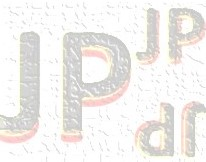
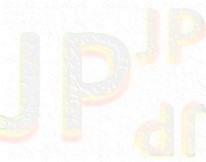
Few updates
Changed background image and corrected some older css to show case the headers.

diff --git a/P2.css b/P2.css
@@ -18,7 +18,8 @@ h1
 	padding: 20px;
 	margin-left: 75px;
 	text-align: center;
-	background: grey;
+	/*background: grey;
+    background-size: contain;*/
 	font-weight: bold;
 	font-size: 3em;
 }
